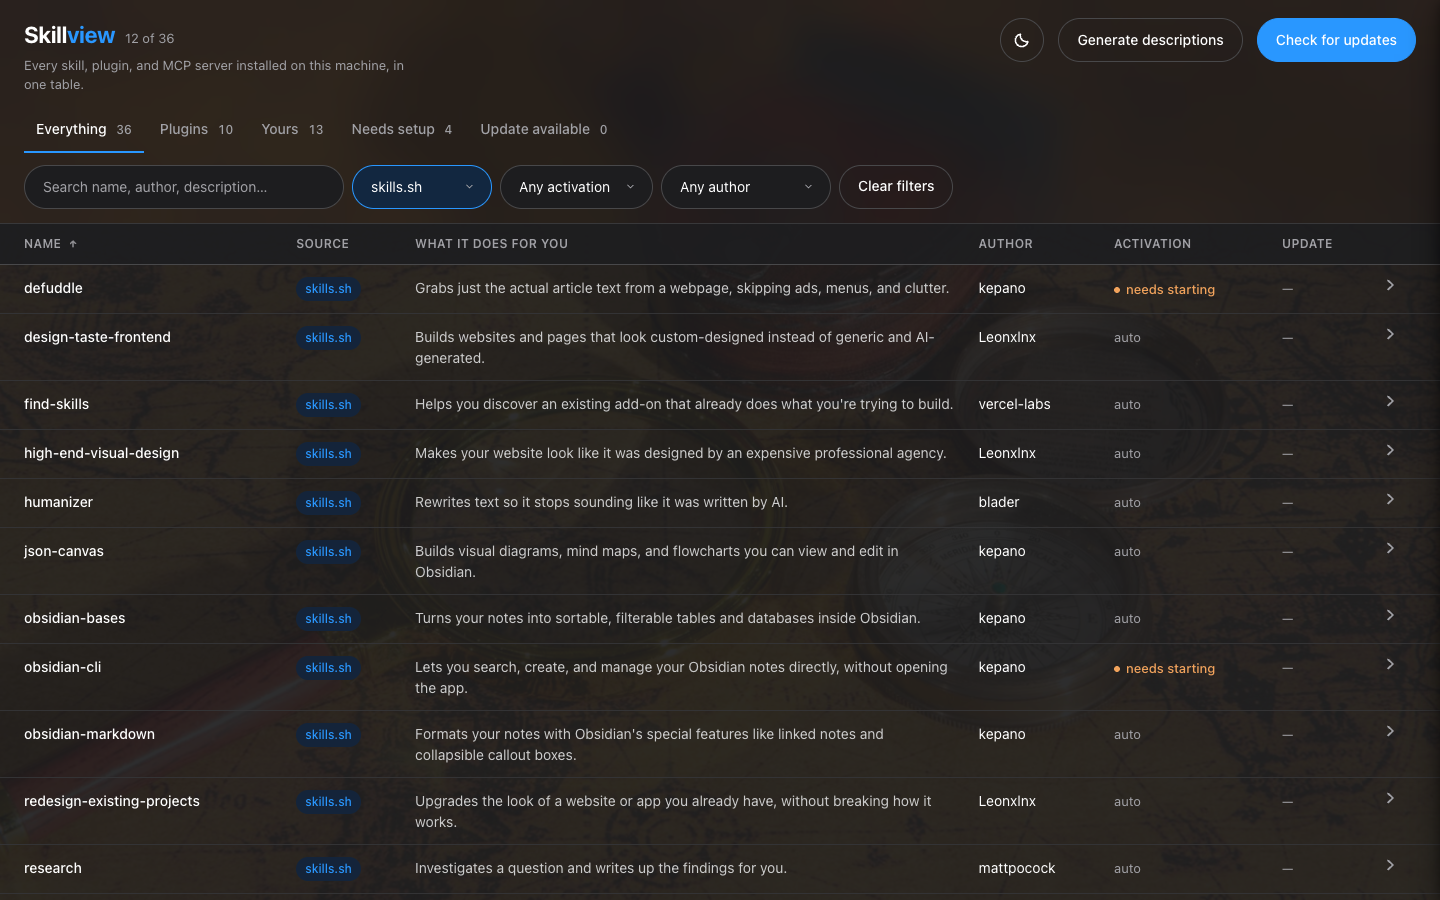
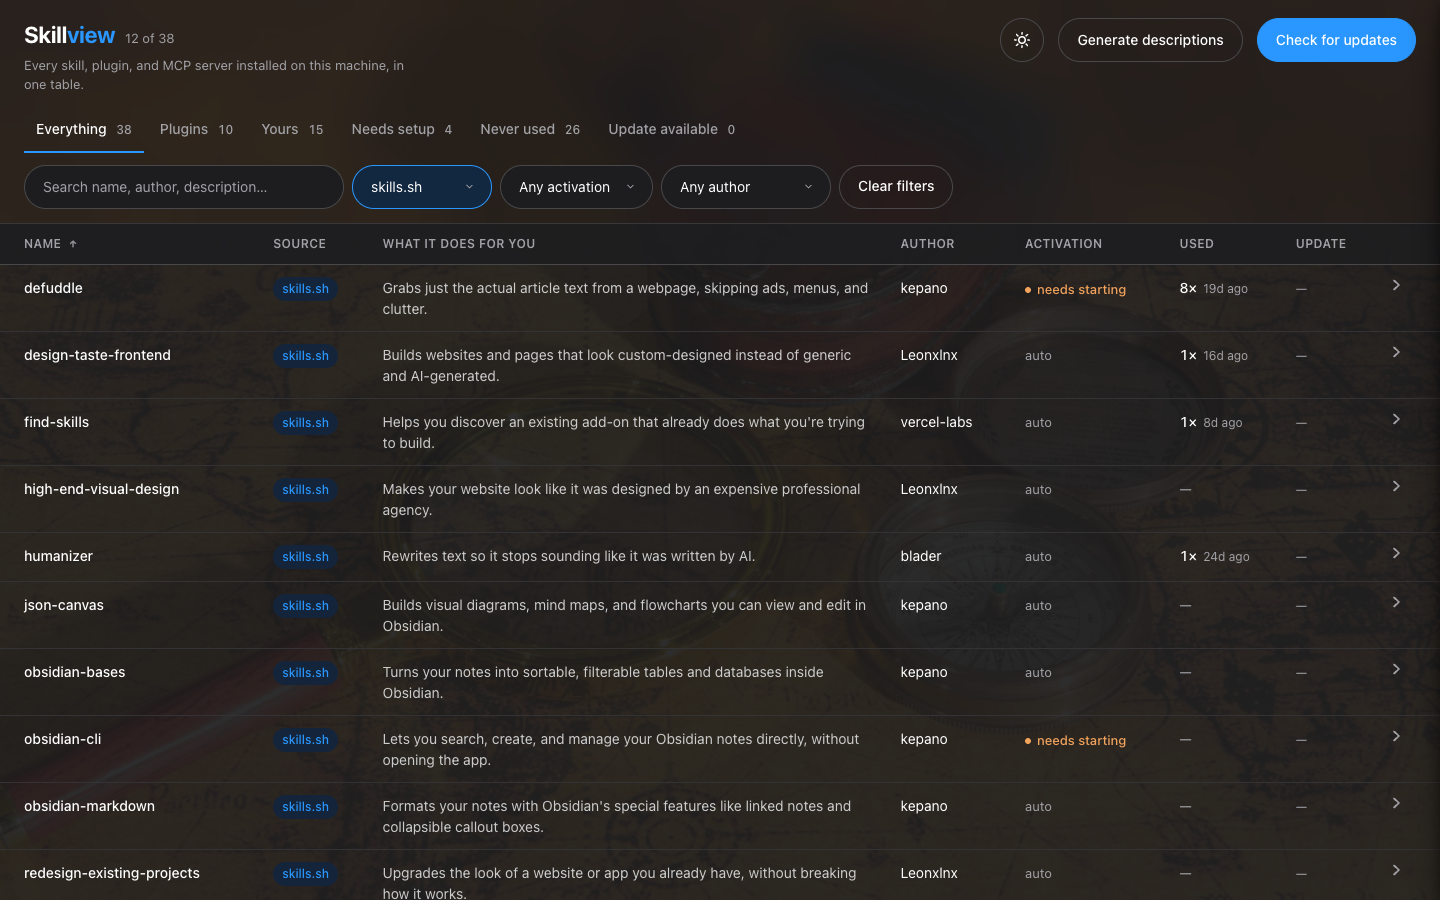
Add the usage column: what you installed and never once used
Skillview's README has always claimed that things get installed, forgotten,
and sit unused during the exact task they were installed for. It had no way
to show it. This is that column.

Skillview still measures nothing. Every Skill invocation is already recorded
in Claude Code's own session transcripts, so the tally is derived retroactively
by a script outside this repo and read here from one local JSON file. No hook
ships with Skillview, and nothing new is recorded on a machine because
Skillview is installed. Absent the file, the column reads blank and everything
else is unchanged.

- usage.py — read-only, no shell, not gated behind --enable-updates, with its
  own demo() self-check. It fills the usage slot inventory.row() has carried
  since August, so no other field changed shape.
- ui.html — a Used column (count + relative last-used) and a Never used view.
  That view is the cull list, and it is the whole point. No charts, no
  leaderboard: the valuable half of this is the quiet section, not the podium.
- A plugin-scoped tally key rolls up to its plugin's row and never falls back
  to the bare name. "anthropic-skills:log" is not necessarily your own "log"
  skill, and attributing one to the other is worse than reporting neither.
  Keys matching no row are printed under the table rather than dropped — a
  skill used and since uninstalled is itself worth seeing.
- README documents the four limits honestly: only formal invocations count,
[…]

diff --git a/ui.html b/ui.html
@@ -403,6 +403,10 @@ ul.pack .pack-install{grid-area:4/1/5/3;margin-top:6px;justify-self:start;
 .err-line{color:var(--error);font-weight:500;margin:10px 0 0}
 #uplog .cmd{max-height:220px;overflow:auto;white-space:pre-wrap;font-size:12px}
 a{color:var(--primary)}
+.footnote{margin:14px 24px 0;font-size:12.5px;color:var(--stone);max-width:78ch}
+.col-used{white-space:nowrap}
+.col-used .n{font-variant-numeric:tabular-nums;font-weight:500;color:var(--ink)}
+.col-used .ago{color:var(--stone);font-size:12px;margin-left:6px}
 
 /* ── responsive ─────────────────────────────────────────────────────────── */
 @media (max-width:900px){
@@ -411,7 +415,7 @@ a{color:var(--primary)}
   thead th:last-child button,td:last-child{padding-right:16px}
   thead th{top:auto;position:static}
   .tablewrap{overflow-x:auto}
-  .col-author,.col-act{display:none}
+  .col-author,.col-act,.col-used{display:none}
   input[type=search]{flex:1 1 100%}
 }
 @media (max-width:600px){
@@ -465,6 +469,7 @@ a{color:var(--primary)}
     </tbody></table>
   </div>
   <div class="empty" id="empty" hidden></div>
+  <p class="footnote" id="usagenote" hidden></p>
 </main>
 
 <div class="scrim" id="scrim"></div>
@@ -483,17 +488,19 @@ const ICON = {
 const COLS = [
   ["name","Name",""],["mechanism","Source","col-source"],
   ["plain","What it does for you",""],["author","Author","col-author"],
-  ["activation","Activation","col-act"],["update","Update",""],
+  ["activation","Activation","col-act"],["usage","Used","col-used"],
+  ["update","Update",""],
 ];
 const VIEWS = {
   "Everything":       () => true,
   "Plugins":          r => r.mechanism === "marketplace",
   "Yours":            r => r.is_local,
   "Needs setup":      r => r.activation === "needs starting",
+  "Never used":       r => !r.usage,
   "Update available": r => r.update === "update available",
 };
 let ITEMS = [], VIEW = "Everything", SORT = {key:"name", dir:1}, CLI = true,
-    UPDATES = false, NOTES = {}, LAST_FOCUS = null, CURRENT_PACK_ROW = null;
+    UPDATES = false, NOTES = {}, USAGE = {}, LAST_FOCUS = null, CURRENT_PACK_ROW = null;
 const $ = s => document.querySelector(s);
 const esc = s => String(s ?? "").replace(/[&<>"]/g, c => ({"&":"&amp;","<":"&lt;",">":"&gt;",'"':"&quot;"}[c]));
 
@@ -516,7 +523,7 @@ async function load(url = "/api/items") {
   if (url.includes("refresh")) { btn.disabled = true; btn.textContent = "Checking…"; }
   try {
     const d = await (await fetch(url)).json();
-    ITEMS = d.items || []; CLI = d.cli; UPDATES = !!d.updates;
+    ITEMS = d.items || []; CLI = d.cli; UPDATES = !!d.updates; USAGE = d.usage || {};
     // Independent of the inventory fetch — notes are user state, not a
     // property of the row, so they're joined here rather than server-side.
     try { NOTES = (await (await fetch("/api/notes")).json()).notes || {}; }
@@ -549,14 +556,21 @@ function visible() {
     (!mech || r.mechanism === mech) && (!act || r.activation === act) && (!au || r.author === au) &&
     (!q || [r.name, r.author, r.plain, r.description, r.source_repo].join(" ").toLowerCase().includes(q))
   ).sort((a, b) => {
-    const k = SORT.key, x = (a[k] ?? "").toString().toLowerCase(), y = (b[k] ?? "").toString().toLowerCase();
+    const k = SORT.key;
+    // Usage is an object, and sorting it as text would order every row by the
+    // string "[object Object]". Sort on the count, never-used last either way.
+    if (k === "usage") {
+      const n = r => r.usage ? r.usage.count : -1;
+      return (n(b) - n(a)) * SORT.dir;
+    }
+    const x = (a[k] ?? "").toString().toLowerCase(), y = (b[k] ?? "").toString().toLowerCase();
     return x < y ? -SORT.dir : x > y ? SORT.dir : 0;
   });
 }
 
 /* ── render ────────────────────────────────────────────────────────────── */
 function renderSkeleton() {
-  const widths = [70, 55, 90, 60, 50, 40];
+  const widths = [70, 55, 90, 60, 50, 35, 40];
   $("#rows").innerHTML = Array.from({ length: 7 }, () =>
     `<tr class="skel"><td class="name"><span class="skel-bar" style="width:${widths[0]}%"></span></td>
       <td><span class="skel-bar" style="width:${widths[1]}%"></span></td>
@@ -564,6 +578,7 @@ function renderSkeleton() {
       <td><span class="skel-bar" style="width:${widths[3]}%"></span></td>
       <td><span class="skel-bar" style="width:${widths[4]}%"></span></td>
       <td><span class="skel-bar" style="width:${widths[5]}%"></span></td>
+      <td><span class="skel-bar" style="width:${widths[6]}%"></span></td>
       <td></td></tr>`).join("");
 }
 
@@ -600,10 +615,34 @@ function render() {
       <td class="col-author">${esc(r.author || "—")}</td>
       <td class="col-act"><span class="state ${r.activation === "auto" ? "s-rest" : "s-act"}">
         ${r.activation === "auto" ? "" : '<span class="dot"></span>'}${esc(r.activation)}</span></td>
+      <td class="col-used">${usedCell(r.usage)}</td>
       <td><span class="state ${upClass(r.update)}">${esc(r.update || "—")}</span></td>
       <td class="chev">${ICON.chev}</td>
     </tr>`;
   }).join("");
+  renderUsageNote();
+}
+/* Invocations, from Claude Code's own transcripts. A blank is "nothing
+   recorded", not proof of never — the record starts at your oldest transcript
+   still on disk, and Claude Code deletes old ones on a schedule — so the
+   dash gets a title saying so rather than reading as a hard zero. */
+function usedCell(u) {
+  if (!u) return '<span class="s-rest" title="No invocation recorded in the retained transcripts">—</span>';
+  return `<span class="n">${u.count}×</span><span class="ago">${esc(ago(u.last_used))}</span>`;
+}
+function ago(day) {
+  const d = Math.floor((Date.now() - Date.parse(day + "T00:00:00Z")) / 864e5);
+  return !isFinite(d) ? "" : d <= 0 ? "today" : d === 1 ? "yesterday"
+    : d < 30 ? `${d}d ago` : d < 365 ? `${Math.floor(d / 30)}mo ago` : `${Math.floor(d / 365)}y ago`;
+}
+function renderUsageNote() {
+  const el = $("#usagenote"), gone = USAGE.unmatched || [];
+  const bits = [];
+  if (USAGE.collected) bits.push(`Usage counted from Claude Code transcripts, last collected ${esc(USAGE.collected)}.`);
+  else bits.push("No usage tally found — run <code>~/.claude/skill-usage/collect.py</code> to build one.");
+  if (gone.length) bits.push(`${gone.length} recorded ${gone.length === 1 ? "skill is" : "skills are"} no longer installed: ${gone.map(esc).join(", ")}.`);
+  el.innerHTML = bits.join(" ");
+  el.hidden = false;
 }
 const bytes = n => n >= 1e9 ? (n / 1e9).toFixed(1) + " GB"
   : n >= 1e6 ? (n / 1e6).toFixed(1) + " MB"

diff --git a/usage.py b/usage.py
@@ -1,0 +1,97 @@
+#!/usr/bin/env python3
+"""How often each item has actually been invoked.
+
+Read-only, like notes.py but simpler still: nothing here writes. The tally is
+produced outside Skillview by ~/.claude/skill-usage/collect.py, which reads
+Claude Code's own session transcripts. Skillview instruments nothing and ships
+no hook — it reads a file that already exists.
+
+Absent is not the same as zero. A skill missing from the tally means "no
+invocation in the transcripts ever scanned", and that window starts at the
+oldest transcript still on disk — Claude Code deletes sessions past
+cleanupPeriodDays (30 by default), so the record has a floor. Callers must not
+present a blank as proof of never.
+"""
+import json
+import os
+from datetime import datetime
+from pathlib import Path
+
+CACHE = Path.home() / ".claude" / "skill-usage" / "usage.json"
+
+
+def _load():
+    try:
+        return json.loads(CACHE.read_text(encoding="utf-8")).get("skills", {})
+    except (OSError, ValueError):
+        return {}
+
+
+def _merge(into, entry):
+    """Several tally keys can land on one row — a plugin is one row but each
+    bundled skill is invoked under its own name."""
+    if into is None:
+        return {"count": entry.get("count", 0),
+                "first_used": entry.get("first_used", ""),
+                "last_used": entry.get("last_used", "")}
+    into["count"] += entry.get("count", 0)
+    for key, pick in (("first_used", min), ("last_used", max)):
+        a, b = into.get(key) or "", entry.get(key) or ""
+        into[key] = pick(a, b) if a and b else (a or b)
+    return into
+
+
+def apply(rows):
+    """Fill row["usage"]; return (rows, summary).
+
+    A plugin-scoped key rolls up to its plugin's row rather than falling back
+    to the bare name: "anthropic-skills:log" is not necessarily your own "log"
+    skill, and attributing one to the other would be worse than reporting neither.
+    """
+    by_name = {r["name"]: r for r in rows}
+    unmatched = []
+    for key, entry in sorted(_load().items()):
+        target = by_name.get(entry.get("plugin") or key)
+        if target is None:
+            unmatched.append(key)
+            continue
+        target["usage"] = _merge(target.get("usage"), entry)
+    return rows, {"collected": _collected(), "unmatched": unmatched}
+
+
+def _collected():
+    """When the tally was last written, so a stale file is visible as stale."""
+    try:
+        # Local date deliberately: this is shown next to "last collected", and
+        # a UTC date reads as yesterday for anyone east of Greenwich.
+        return datetime.fromtimestamp(os.path.getmtime(CACHE)).date().isoformat()
+    except OSError:
+        return ""
+
+
+def demo():
+    rows = [{"name": "note", "usage": None}, {"name": "mattpocock-skills", "usage": None}]
+    global _load
+    real, _load = _load, lambda: {
+        "note": {"count": 4, "first_used": "2026-08-10", "last_used": "2026-08-26", "plugin": None},
+        "mattpocock-skills:tdd": {"count": 1, "first_used": "2026-08-15",
+                                  "last_used": "2026-08-15", "plugin": "mattpocock-skills"},
+        "mattpocock-skills:grilling": {"count": 2, "first_used": "2026-08-18",
+                                       "last_used": "2026-08-18", "plugin": "mattpocock-skills"},
+        "anthropic-skills:log": {"count": 1, "first_used": "2026-07-31",
+                                 "last_used": "2026-07-31", "plugin": "anthropic-skills"},
+    }
+    try:
+        out, summary = apply(rows)
+    finally:
+        _load = real
+    assert out[0]["usage"] == {"count": 4, "first_used": "2026-08-10", "last_used": "2026-08-26"}
+    # Two bundled skills roll up into the one plugin row, dates spanning both.
+    assert out[1]["usage"] == {"count": 3, "first_used": "2026-08-15", "last_used": "2026-08-18"}
+    # An uninstalled plugin's key never leaks onto the similarly-named local skill.
+    assert summary["unmatched"] == ["anthropic-skills:log"]
+    print("usage: ok")
+
+
+if __name__ == "__main__":
+    demo()

diff --git a/app.py b/app.py
@@ -24,6 +24,7 @@ import inventory
 import notes
 import updater
 import upstream
+import usage
 
 HERE = Path(__file__).parent
 CONFIG = json.loads((HERE / "config.json").read_text(encoding="utf-8")) if (HERE / "config.json").exists() else {}
@@ -38,13 +39,15 @@ UPDATES = ("--enable-updates" in sys.argv
 
 
 def items(with_upstream=False):
+    """Returns (rows, usage_summary) — the tally's own metadata rides along
+    because a stale or missing usage.json has to be visible in the UI."""
     rows = inventory.inventory()
     if with_upstream:
         rows = upstream.check(rows)
     else:
         for r in rows:
             r["update"], r["update_command"], r["catalog"] = "", "", []
-    return describe.apply(rows)
+    return usage.apply(describe.apply(rows))
 
 
 class Handler(BaseHTTPRequestHandler):
@@ -86,10 +89,10 @@ class Handler(BaseHTTPRequestHandler):
             self.send_header("Content-Length", str(len(img)))
             self.end_headers()
             self.wfile.write(img)
-        elif self.path == "/api/items":
-            self._send({"items": items(), "cli": describe.available(), "updates": UPDATES})
-        elif self.path == "/api/refresh":
-            self._send({"items": items(with_upstream=True), "cli": describe.available(), "updates": UPDATES})
+        elif self.path in ("/api/items", "/api/refresh"):
+            rows, used = items(with_upstream=self.path.endswith("refresh"))
+            self._send({"items": rows, "cli": describe.available(),
+                        "updates": UPDATES, "usage": used})
         elif self.path.startswith("/api/catalog"):
             q = urllib.parse.parse_qs(urllib.parse.urlparse(self.path).query)
             repo, path = q.get("repo", [""])[0], q.get("path", [""])[0]
@@ -168,8 +171,13 @@ class Handler(BaseHTTPRequestHandler):
 
 def main():
     if "--scan" in sys.argv:          # headless sanity check, no browser needed
-        for r in items(with_upstream="--net" in sys.argv):
-            print(f"{r['name']:28} {r['mechanism']:12} {r.get('update', ''):16} {r['plain'][:60]}")
+        rows, used = items(with_upstream="--net" in sys.argv)
+        for r in rows:
+            n = (r["usage"] or {}).get("count", 0)
+            print(f"{r['name']:28} {r['mechanism']:12} {n or '-':>4}  "
+                  f"{r.get('update', ''):16} {r['plain'][:52]}")
+        if used["unmatched"]:
+            print(f"\nused but not installed: {', '.join(used['unmatched'])}")
         return
     try:
         server = ThreadingHTTPServer(("127.0.0.1", PORT), Handler)

diff --git a/README.md b/README.md
@@ -21,6 +21,7 @@ Nothing shows them together. So things get installed, forgotten, and then sit un
 - **How to actually use it.** Every sub-command a plugin ships — bundled skills, slash commands, agents, hooks, MCP servers — listed as numbered one-liners.
 - **What's gone stale**, across every mechanism, in one refresh. One network call per source repo.
 - **What you didn't install.** A pack ships 13 skills and you took 3? It shows the other 10.
+- **What you never actually used.** A count and a last-used date per item, read back out of Claude Code's own session transcripts, plus a **Never used** view. That view is the cull list.
 - **Who wrote it** — derived from whether an upstream exists, so your own skills are correctly marked as yours to maintain.
 - **Can I use this right now?** Fires automatically, needs a slash command, or needs something started first — with the exact command.
 
@@ -57,6 +58,7 @@ This is genuinely optional. If the CLI is missing or not signed in, the dashboar
 | **Author** | who wrote it — derived from whether an upstream source exists, never from a configured name |
 | **Surface** | which agents actually have it installed |
 | **Activation** | *auto* (fires itself) · *manual* (you type the command) · *needs starting* (something must be installed or running first) |
+| **Used** | how many times it has been invoked, and how long ago — or an em-dash for nothing recorded |
 | **Update** | up to date · update available · no upstream · unknown |
 
 Click **View** on any row for the full picture: every sub-command as a numbered one-liner, prerequisites with their exact commands, install path, source, and the command that updates it.
@@ -90,9 +92,20 @@ All of that lives in one file, [`updater.py`](updater.py), so you can audit the 
 
 Plugin updates change files on disk but the running Claude Code session keeps the old copy, so those report **restart required** rather than claiming success.
 
+## Usage counts — where they come from
+
+The **Used** column and the **Never used** view read one local file, `~/.claude/skill-usage/usage.json`. Skillview does not produce that file and does not instrument anything: every `Skill` invocation is already recorded in Claude Code's own session transcripts, so the tally is derived retroactively by a separate script outside this repo. No hook ships here, and nothing new is recorded on your machine because Skillview is installed. If the file is absent, the column reads as blank and the table is otherwise unchanged.
+
+Four limits, all real:
+
+- **Only formal invocations are counted.** A skill whose guidance the model follows without calling the `Skill` tool leaves no trace.
+- **The record starts when your transcripts start.** Claude Code deletes sessions older than `cleanupPeriodDays` (30 by default). Anything before your oldest retained transcript is gone and cannot be recovered.
+- **Blank is not zero.** It means "nothing recorded in the transcripts scanned", which is a weaker claim.
+- **Some skills are rare by design.** A skill written to fire only on an explicit ask *should* read low. Zero is a reason to check the trigger wording, not an instruction to delete. The column reports; you judge.
+
 ## What it deliberately doesn't do
 
-It doesn't track usage, manage dependencies, or edit skills. It reads, reports, and — if you ask it to — runs the ecosystem's own update command.
+It doesn't measure usage itself, manage dependencies, or edit skills. It reads, reports, and — if you ask it to — runs the ecosystem's own update command.
 
 ## Honest limits
 
@@ -110,6 +123,7 @@ Nothing is hardcoded to a user or a path. Locations come from `$HOME` and `CLAUD
 ~/.claude/plugins/known_marketplaces.json  their source repos
 ~/.agents/.skill-lock.json                 skills.sh installs
 ~/.claude/skills/<name>/SKILL.md           everything else
+~/.claude/skill-usage/usage.json           invocation counts, if present
 ```
 
 Any of these being absent is normal — each is read independently, and a machine with none of them shows an empty table rather than an error.
@@ -121,6 +135,7 @@ app.py            HTTP shim — routes to pure functions, nothing else
 inventory.py      filesystem: read every mechanism into one row shape
 upstream.py       network: update status per source repo
 describe.py       subprocess: claude CLI → cached descriptions
+usage.py          read-only: joins the local invocation tally onto the rows
 updater.py        the only code that can change anything. Off by default
 ui.html           the whole frontend, vanilla, no CDN
 test_inventory.py python3 test_inventory.py
